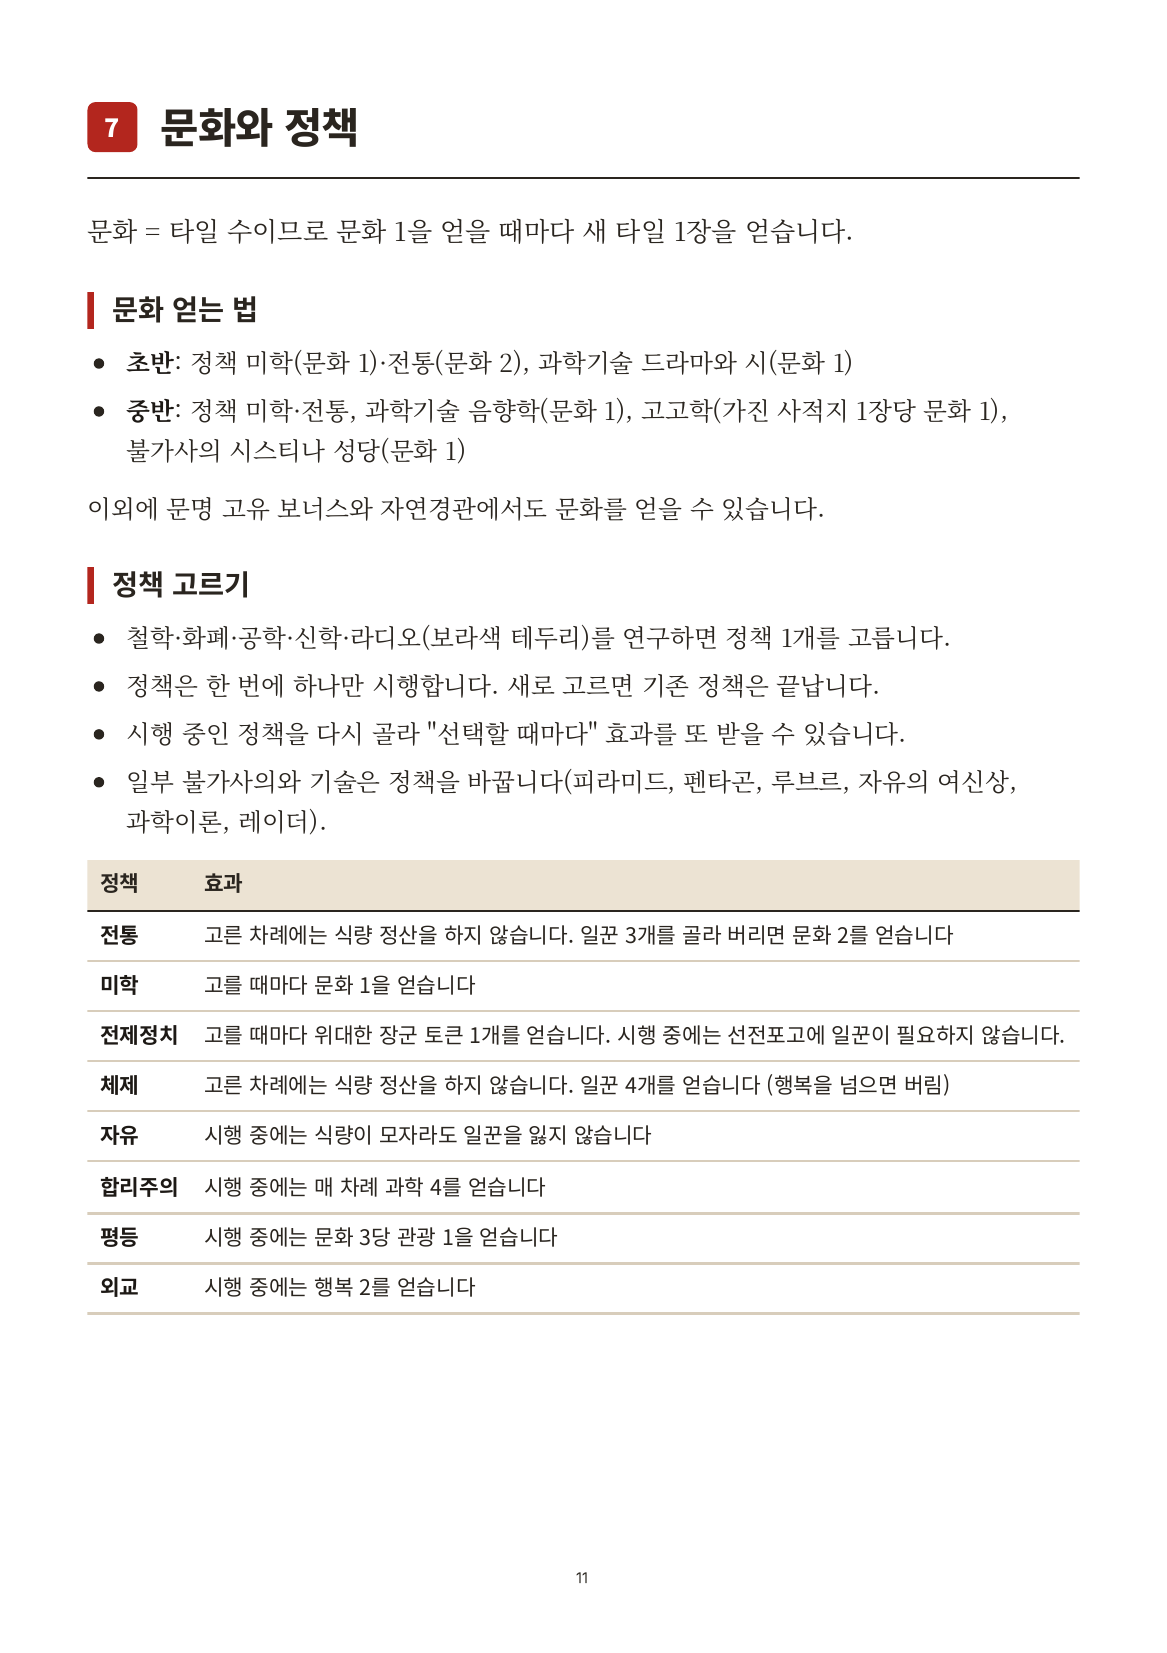
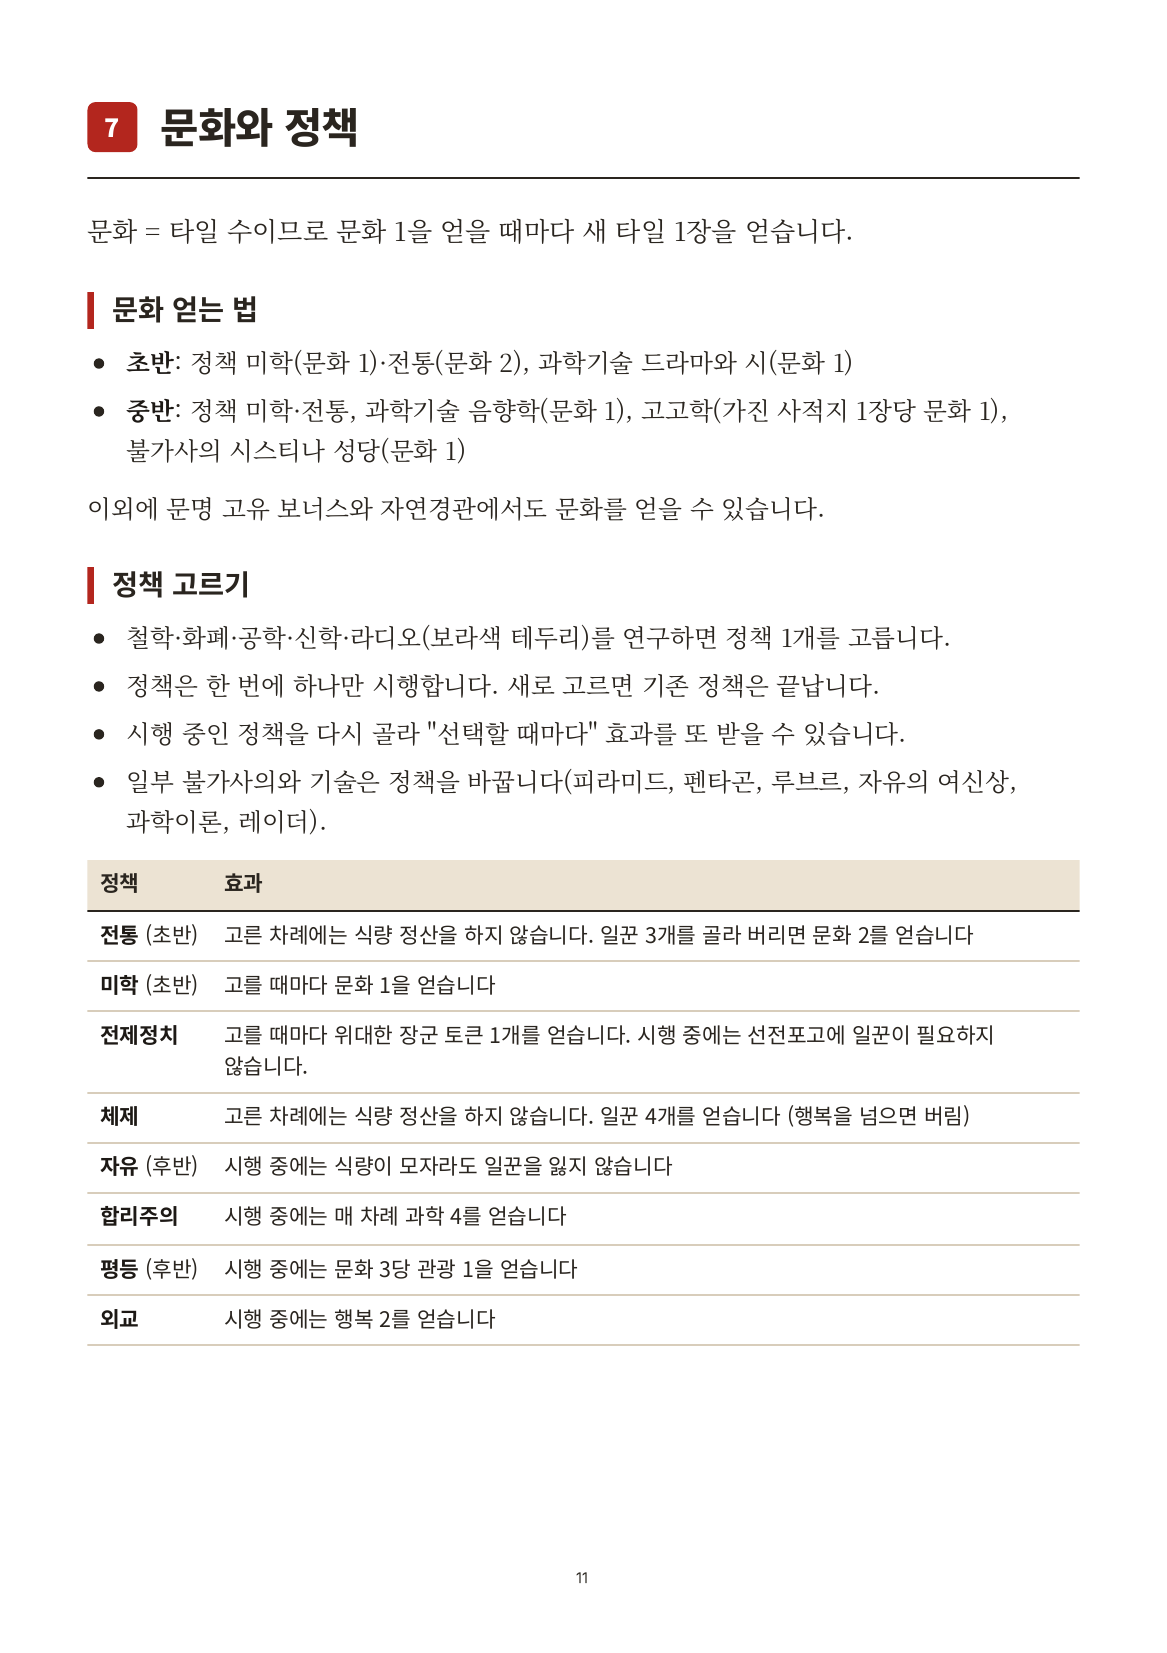
규칙서 7장 정책 표: 전통·미학 (초반), 자유·평등 (후반)
Claude-Session: https://claude.ai/code/session_01LEwiRiXRJPjckZxHM1aEbm

Changed region(s): [[0.0617, 0.5245, 0.8946, 0.8022]]

diff --git a/docs/rulebook/source/part2.html b/docs/rulebook/source/part2.html
@@ -66,13 +66,13 @@
   <table class="keep">
     <thead><tr><th>정책</th><th>효과</th></tr></thead>
     <tbody>
-      <tr><td><b>전통</b></td><td>고른 차례에는 식량 정산을 하지 않습니다. 일꾼 3개를 골라 버리면 문화 2를 얻습니다</td></tr>
-      <tr><td><b>미학</b></td><td>고를 때마다 문화 1을 얻습니다</td></tr>
+      <tr><td style="white-space:nowrap"><b>전통</b> (초반)</td><td>고른 차례에는 식량 정산을 하지 않습니다. 일꾼 3개를 골라 버리면 문화 2를 얻습니다</td></tr>
+      <tr><td style="white-space:nowrap"><b>미학</b> (초반)</td><td>고를 때마다 문화 1을 얻습니다</td></tr>
       <tr><td><b>전제정치</b></td><td>고를 때마다 위대한 장군 토큰 1개를 얻습니다. 시행 중에는 선전포고에 일꾼이 필요하지 않습니다.</td></tr>
       <tr><td><b>체제</b></td><td>고른 차례에는 식량 정산을 하지 않습니다. 일꾼 4개를 얻습니다 (행복을 넘으면 버림)</td></tr>
-      <tr><td><b>자유</b></td><td>시행 중에는 식량이 모자라도 일꾼을 잃지 않습니다</td></tr>
+      <tr><td style="white-space:nowrap"><b>자유</b> (후반)</td><td>시행 중에는 식량이 모자라도 일꾼을 잃지 않습니다</td></tr>
       <tr><td><b>합리주의</b></td><td>시행 중에는 매 차례 과학 4를 얻습니다</td></tr>
-      <tr><td><b>평등</b></td><td>시행 중에는 문화 3당 관광 1을 얻습니다</td></tr>
+      <tr><td style="white-space:nowrap"><b>평등</b> (후반)</td><td>시행 중에는 문화 3당 관광 1을 얻습니다</td></tr>
       <tr><td><b>외교</b></td><td>시행 중에는 행복 2를 얻습니다</td></tr>
     </tbody>
   </table>
